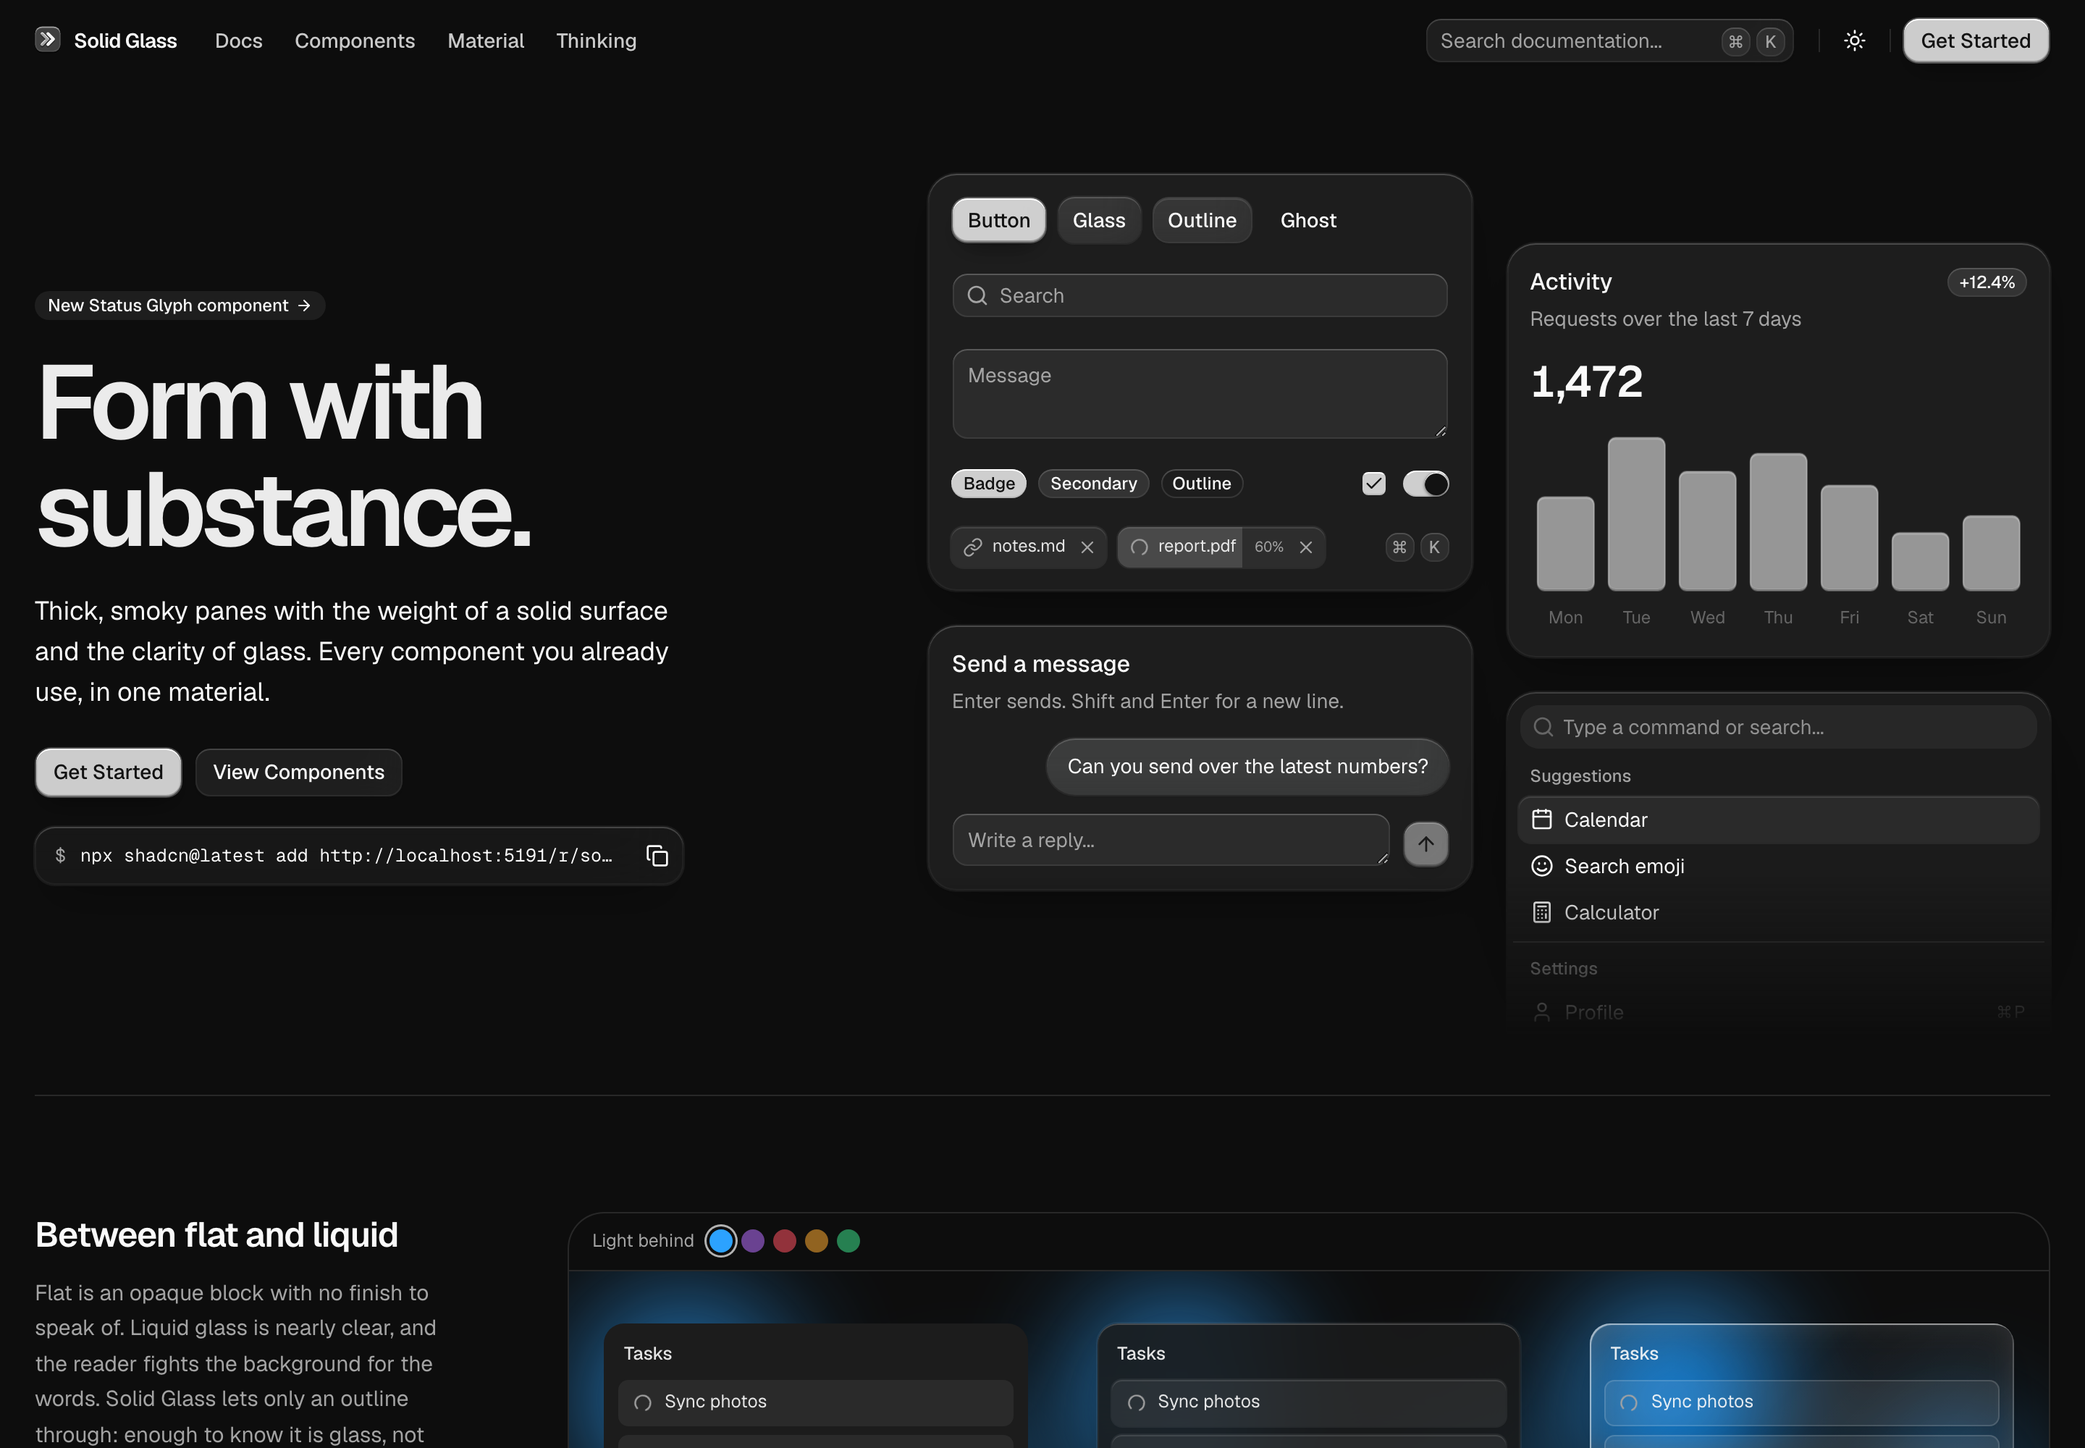
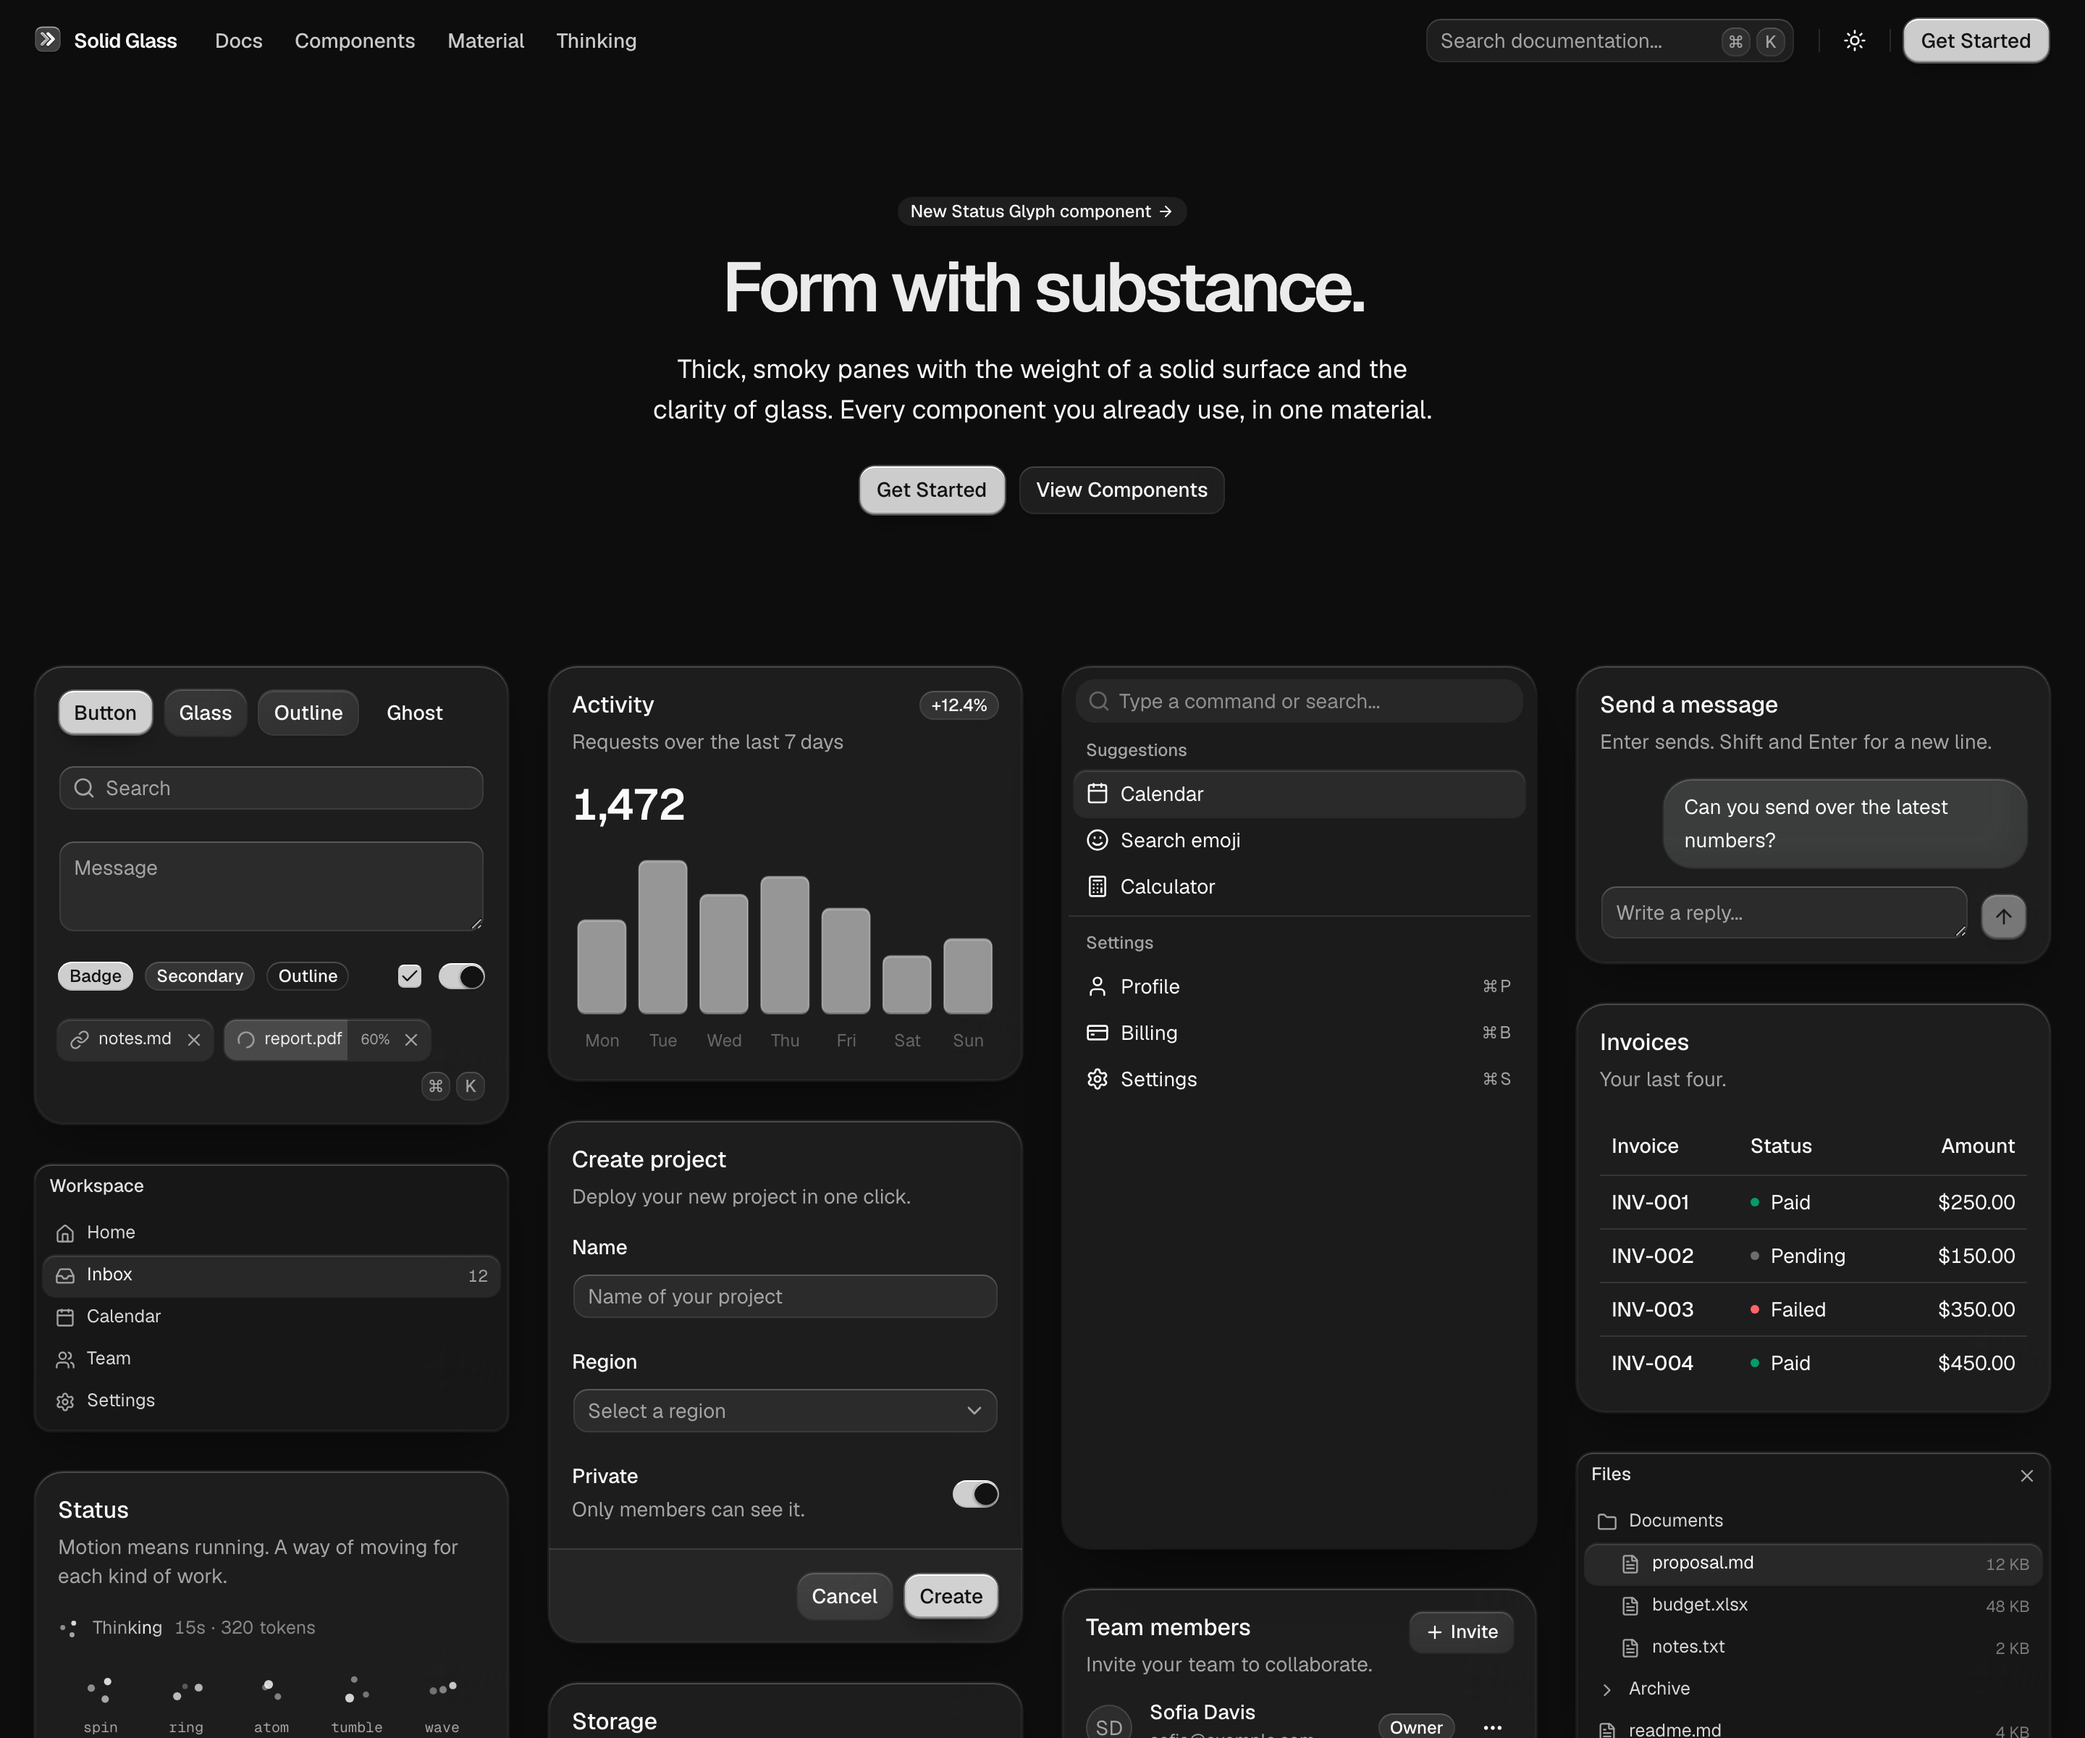
Go back to the wall of cards on the home page
This reverts commit 1e818dd. Beside the headline there was room for four
cards where the wall shows fourteen; the page is for showing components.

diff --git a/src/pages/home.tsx b/src/pages/home.tsx
@@ -1,119 +1,40 @@
-import * as React from "react"
-import { ArrowRightIcon, CheckIcon, CopyIcon } from "lucide-react"
+import { ArrowRightIcon } from "lucide-react"
 import { Link } from "react-router-dom"
 
 import { cn } from "@/lib/utils"
 import { badgeVariants } from "@/components/ui/badge"
-import { Button, buttonVariants } from "@/components/ui/button"
-import { HeroStage, Wall } from "@/home/wall"
-import { useCopyToClipboard } from "@/hooks/use-copy-to-clipboard"
-import { Compare } from "@/site/compare"
-
-/** The one command that installs the material, with a button that copies it. */
-function InstallLine() {
-  const { isCopied, copyToClipboard } = useCopyToClipboard()
-  const command = `npx shadcn@latest add ${window.location.origin}${import.meta.env.BASE_URL.replace(/\/$/, "")}/r/solid-glass.json`
-  return (
-    <div className="glass-panel flex h-10 w-full max-w-md items-center gap-2.5 rounded-lg pr-1 pl-3.5 font-mono text-[12.5px]">
-      <span className="text-muted-foreground select-none">$</span>
-      <span className="min-w-0 flex-1 truncate">{command}</span>
-      <Button variant="ghost" size="icon-sm" aria-label="Copy the command" onClick={() => copyToClipboard(command)}>
-        {isCopied ? <CheckIcon /> : <CopyIcon />}
-      </Button>
-    </div>
-  )
-}
-
-/** A stretch of the page: what it is about on the left, the thing itself on the right. */
-function Section({ title, text, action, children }: { title: string; text: React.ReactNode; action?: React.ReactNode; children: React.ReactNode }) {
-  return (
-    <section className="container-wrapper px-6">
-      <div className="grid grid-cols-[minmax(0,1fr)] gap-8 border-t py-14 lg:grid-cols-[minmax(0,19rem)_minmax(0,1fr)] lg:gap-16 lg:py-20">
-        <div className="lg:sticky lg:top-24 lg:self-start">
-          <h2 className="text-2xl font-semibold tracking-tight">{title}</h2>
-          <p className="mt-3 text-[15px] leading-relaxed text-muted-foreground">{text}</p>
-          {action && <div className="mt-5">{action}</div>}
-        </div>
-        <div className="min-w-0">{children}</div>
-      </div>
-    </section>
-  )
-}
-
-const RULES = [
-  { title: "The finish is at the edge", text: "A rim of light, a hairline and a shadow. Never a gradient or a highlight across the face." },
-  { title: "Heavy, not airy", text: "Neutral grey. The blur softens what is behind a pane without boosting its colour." },
-  { title: "Depth is thickness", text: "Panels are thinnest, cards in between, anything that floats is thickest, and thicker is more opaque." },
-  { title: "One state", text: "Hovered, chosen and held open all wear the same small pane of clear glass, wherever they are." },
-]
+import { buttonVariants } from "@/components/ui/button"
+import { Wall } from "@/home/wall"
+import { PageActions, PageHeader, PageHeaderDescription, PageHeaderHeading } from "@/site/page-header"
 
 export function Home() {
   return (
     <div className="flex flex-1 flex-col">
-      <section className="container-wrapper px-6">
-        <div className="grid grid-cols-[minmax(0,1fr)] items-center gap-12 py-12 lg:grid-cols-[minmax(0,5fr)_minmax(0,7fr)] lg:gap-16 lg:py-16">
-          <div className="flex min-w-0 flex-col items-start gap-5">
-            <Link to="/docs/components/status-glyph" className={cn(badgeVariants({ variant: "secondary" }), "bg-muted")}>
-              New Status Glyph component <ArrowRightIcon />
-            </Link>
-            <h1 className="text-5xl leading-[1.02] font-semibold tracking-tighter text-primary xl:text-7xl">
-              Form with
-              <br />
-              substance.
-            </h1>
-            <p className="max-w-md text-base text-foreground sm:text-lg">
-              Thick, smoky panes with the weight of a solid surface and the clarity of glass. Every component you already use, in one
-              material.
-            </p>
-            <div className="flex items-center gap-2 pt-1">
-              <Link to="/docs/installation" className={cn(buttonVariants(), "h-[35px] px-3")}>
-                Get Started
-              </Link>
-              <Link to="/docs/components" data-slot="button" data-variant="secondary" className={cn(buttonVariants({ variant: "secondary" }), "h-[35px] px-3")}>
-                View Components
-              </Link>
-            </div>
-            <InstallLine />
-          </div>
-          <HeroStage />
-        </div>
-      </section>
-
-      <Section
-        title="Between flat and liquid"
-        text="Flat is an opaque block with no finish to speak of. Liquid glass is nearly clear, and the reader fights the background for the words. Solid Glass lets only an outline through: enough to know it is glass, not enough to get in the way of reading."
-        action={
-          <Link to="/docs/material" className="inline-flex items-center gap-1 text-sm font-medium underline-offset-4 hover:underline">
-            How a pane is made <ArrowRightIcon className="size-3.5" />
+      <PageHeader>
+        <Link to="/docs/components/status-glyph" className={cn(badgeVariants({ variant: "secondary" }), "bg-muted")}>
+          New Status Glyph component <ArrowRightIcon />
+        </Link>
+        <PageHeaderHeading className="max-w-4xl">Form with substance.</PageHeaderHeading>
+        <PageHeaderDescription>
+          Thick, smoky panes with the weight of a solid surface and the clarity of glass. Every component you already use, in one
+          material.
+        </PageHeaderDescription>
+        <PageActions>
+          <Link to="/docs/installation" className={cn(buttonVariants(), "h-[35px] px-3")}>
+            Get Started
           </Link>
-        }
-      >
-        <Compare className="my-0" />
-      </Section>
-
-      <Section title="Four rules" text="Everything in the material follows from these, and anything added to it is held to them.">
-        <div className="grid gap-4 sm:grid-cols-2">
-          {RULES.map((rule, index) => (
-            <div key={rule.title} className="glass-panel flex flex-col gap-2 rounded-xl p-5">
-              <span className="font-mono text-xs text-muted-foreground">{String(index + 1).padStart(2, "0")}</span>
-              <h3 className="font-medium">{rule.title}</h3>
-              <p className="text-sm leading-relaxed text-muted-foreground">{rule.text}</p>
-            </div>
-          ))}
-        </div>
-      </Section>
-
-      <Section
-        title="Every component, one material"
-        text="Forms, tables, menus, dialogs, charts: what an application is made of, as installed and unchanged. The stylesheet finds each part by the names it already carries."
-        action={
-          <Link to="/docs/components" className="inline-flex items-center gap-1 text-sm font-medium underline-offset-4 hover:underline">
-            All components <ArrowRightIcon className="size-3.5" />
+          <Link to="/docs/components" data-slot="button" data-variant="secondary" className={cn(buttonVariants({ variant: "secondary" }), "h-[35px] px-3")}>
+            View Components
           </Link>
-        }
-      >
-        <Wall />
-      </Section>
+        </PageActions>
+      </PageHeader>
+      <div className="container-wrapper flex-1 p-0">
+        <div className="container overflow-hidden md:px-0 lg:max-w-none">
+          <section>
+            <Wall />
+          </section>
+        </div>
+      </div>
     </div>
   )
 }

diff --git a/src/home/wall.tsx b/src/home/wall.tsx
@@ -592,50 +592,35 @@ function Message() {
   )
 }
 
-/** Beside the headline: a few of the cards, in two columns that do not line up, fading out below. */
-export function HeroStage() {
-  const column = "min-w-0 flex-col gap-6 *:shrink-0"
-  return (
-    <div
-      data-slot="demo"
-      className="-m-6 grid max-h-[620px] grid-cols-[minmax(0,1fr)] gap-6 overflow-hidden p-6 [mask-image:linear-gradient(to_bottom,black_calc(100%-7rem),transparent)] sm:grid-cols-2"
-    >
-      <div className={cn(column, "flex")}>
-        <Elements />
-        <Message />
-      </div>
-      <div className={cn(column, "hidden pt-12 sm:flex")}>
-        <Activity />
-        <Palette />
-      </div>
-    </div>
-  )
-}
-
-/** The rest of the cards, as a wall: what an application is made of, in the material. */
 export function Wall() {
-  const column = "min-w-0 flex-col gap-6 *:shrink-0"
+  const column = "min-w-0 flex-col gap-(--gap)"
   return (
-    <div
-      data-slot="demo"
-      className="-m-6 grid max-h-[760px] grid-cols-[minmax(0,1fr)] gap-6 overflow-hidden p-6 [mask-image:linear-gradient(to_bottom,black_calc(100%-8rem),transparent)] md:grid-cols-2 xl:grid-cols-3"
-    >
-      <div className={cn(column, "flex")}>
-        <Navigation />
-        <Status />
-        <Notifications />
+    <div data-slot="demo" className="relative w-full overflow-hidden p-6 pb-0 [--gap:--spacing(6)] xl:[--gap:--spacing(7)]">
+      <div className="relative z-10 mx-auto grid max-h-[1240px] w-full grid-cols-[minmax(0,1fr)] gap-x-(--gap) md:max-w-3xl md:grid-cols-2 lg:max-w-none lg:grid-cols-3 min-[1400px]:grid-cols-4! xl:max-w-[1600px]">
+        <div className={cn(column, "flex")}>
+          <Elements />
+          <Navigation />
+          <Status />
+          <Notifications />
+        </div>
+        <div className={cn(column, "hidden md:flex")}>
+          <Activity />
+          <CreateProject />
+          <Storage />
+        </div>
+        <div className={cn(column, "hidden lg:flex")}>
+          <Palette />
+          <Members />
+          <Account />
+          <Confirm />
+        </div>
+        <div className={cn(column, "hidden min-[1400px]:flex")}>
+          <Message />
+          <Invoices />
+          <Files />
+        </div>
       </div>
-      <div className={cn(column, "hidden md:flex")}>
-        <CreateProject />
-        <Storage />
-        <Confirm />
-      </div>
-      <div className={cn(column, "hidden xl:flex")}>
-        <Members />
-        <Account />
-        <Invoices />
-        <Files />
-      </div>
+      <div className="pointer-events-none absolute inset-x-0 bottom-0 z-20 h-48 bg-linear-to-t from-background via-background/80 to-transparent" />
     </div>
   )
 }

diff --git a/README.md b/README.md
@@ -93,7 +93,7 @@ npx shadcn@latest add https://deeplethe.github.io/solid-glass/r/status-glyph.jso
 | `src/components/ui/` | The components the site shows. shadcn/ui's (Base UI, `base-nova`), installed with its command line, and Solid Glass's own. A few of shadcn/ui's (`button`, `input`, `tabs`, `dialog`, `dropdown-menu`, `sheet`, `sidebar` and some form controls) differ from stock in small ways; the stylesheet does not depend on those differences. |
 | `src/examples/` | One small file per example, as on ui.shadcn.com: shadcn/ui's own examples, and Solid Glass's for its own components. |
 | `content/` | The documentation. `components/` is shadcn/ui's page for each component; `solid/` and `docs/` are Solid Glass's. |
-| `src/site/`, `src/pages/`, `src/home/` | The site: header, sidebar, component preview, and the home page: the headline beside a few cards, where the material stands, its four rules, and a wall of cards. |
+| `src/site/`, `src/pages/`, `src/home/` | The site: header, sidebar, component preview, and the wall of cards on the home page. |
 | `scripts/build-docs.mjs` | Turns `content/` into `src/docs/generated.json`, which the site renders. |
 
 ## Run
